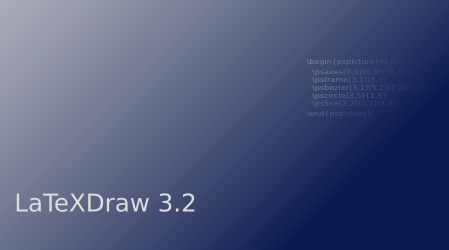
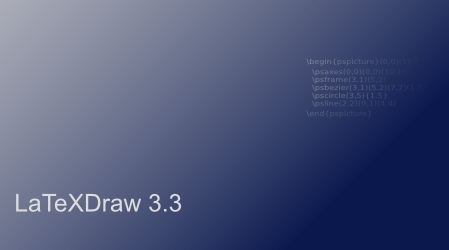
Jump to 3.3

Changed region(s): [[0.0312, 0.756, 0.4365, 0.868]]

diff --git a/latexdraw-core/net.sf.latexdraw/src/main/net/sf/latexdraw/util/VersionChecker.java b/latexdraw-core/net.sf.latexdraw/src/main/net/sf/latexdraw/util/VersionChecker.java
@@ -40,12 +40,12 @@ import org.malai.action.library.OpenWebPage;
  */
 public class VersionChecker extends Thread {
 	/** The version of the application */
-    public static final String VERSION   = "3.2.0";//$NON-NLS-1$
+    public static final String VERSION   = "3.3.0";//$NON-NLS-1$
 
 	public static final String VERSION_STABILITY = ""; //$NON-NLS-1$
 
 	/** The identifier of the build */
-	public static final String ID_BUILD = "20140914";//$NON-NLS-1$
+	public static final String ID_BUILD = "20140915";//$NON-NLS-1$
 
 	/** To change if update is needed or not. */
 	public static final boolean WITH_UPDATE = true;
